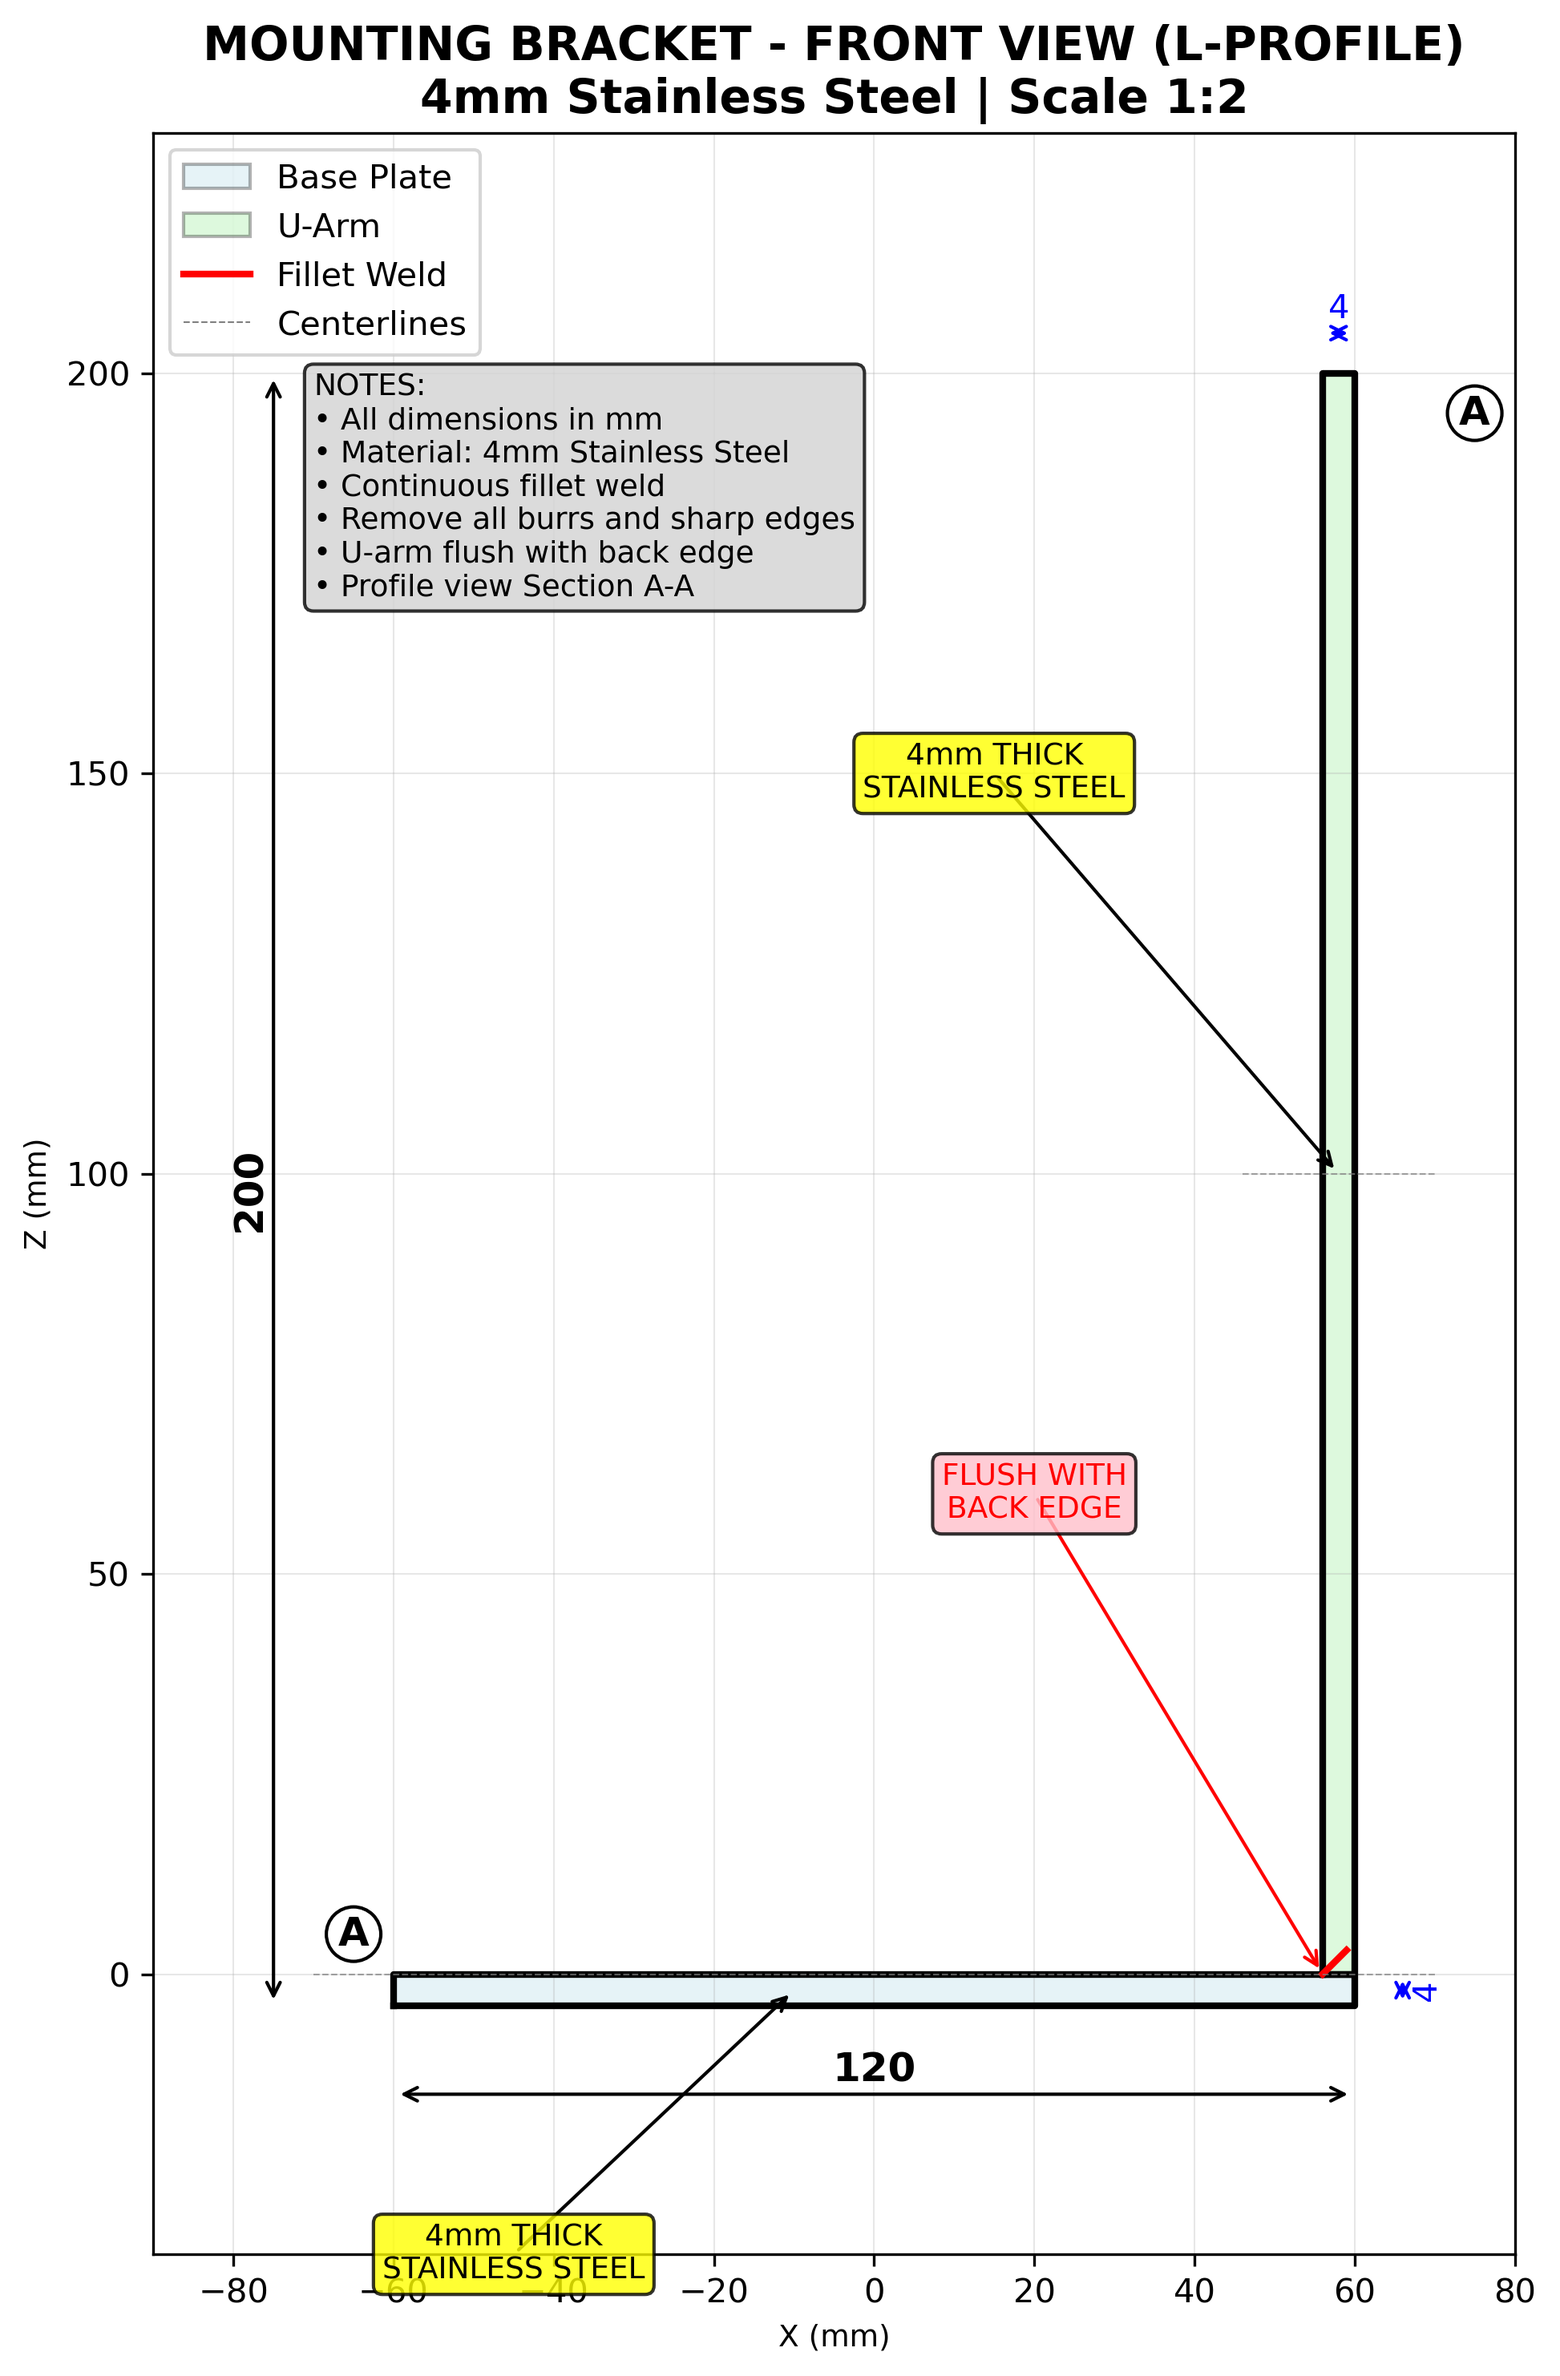
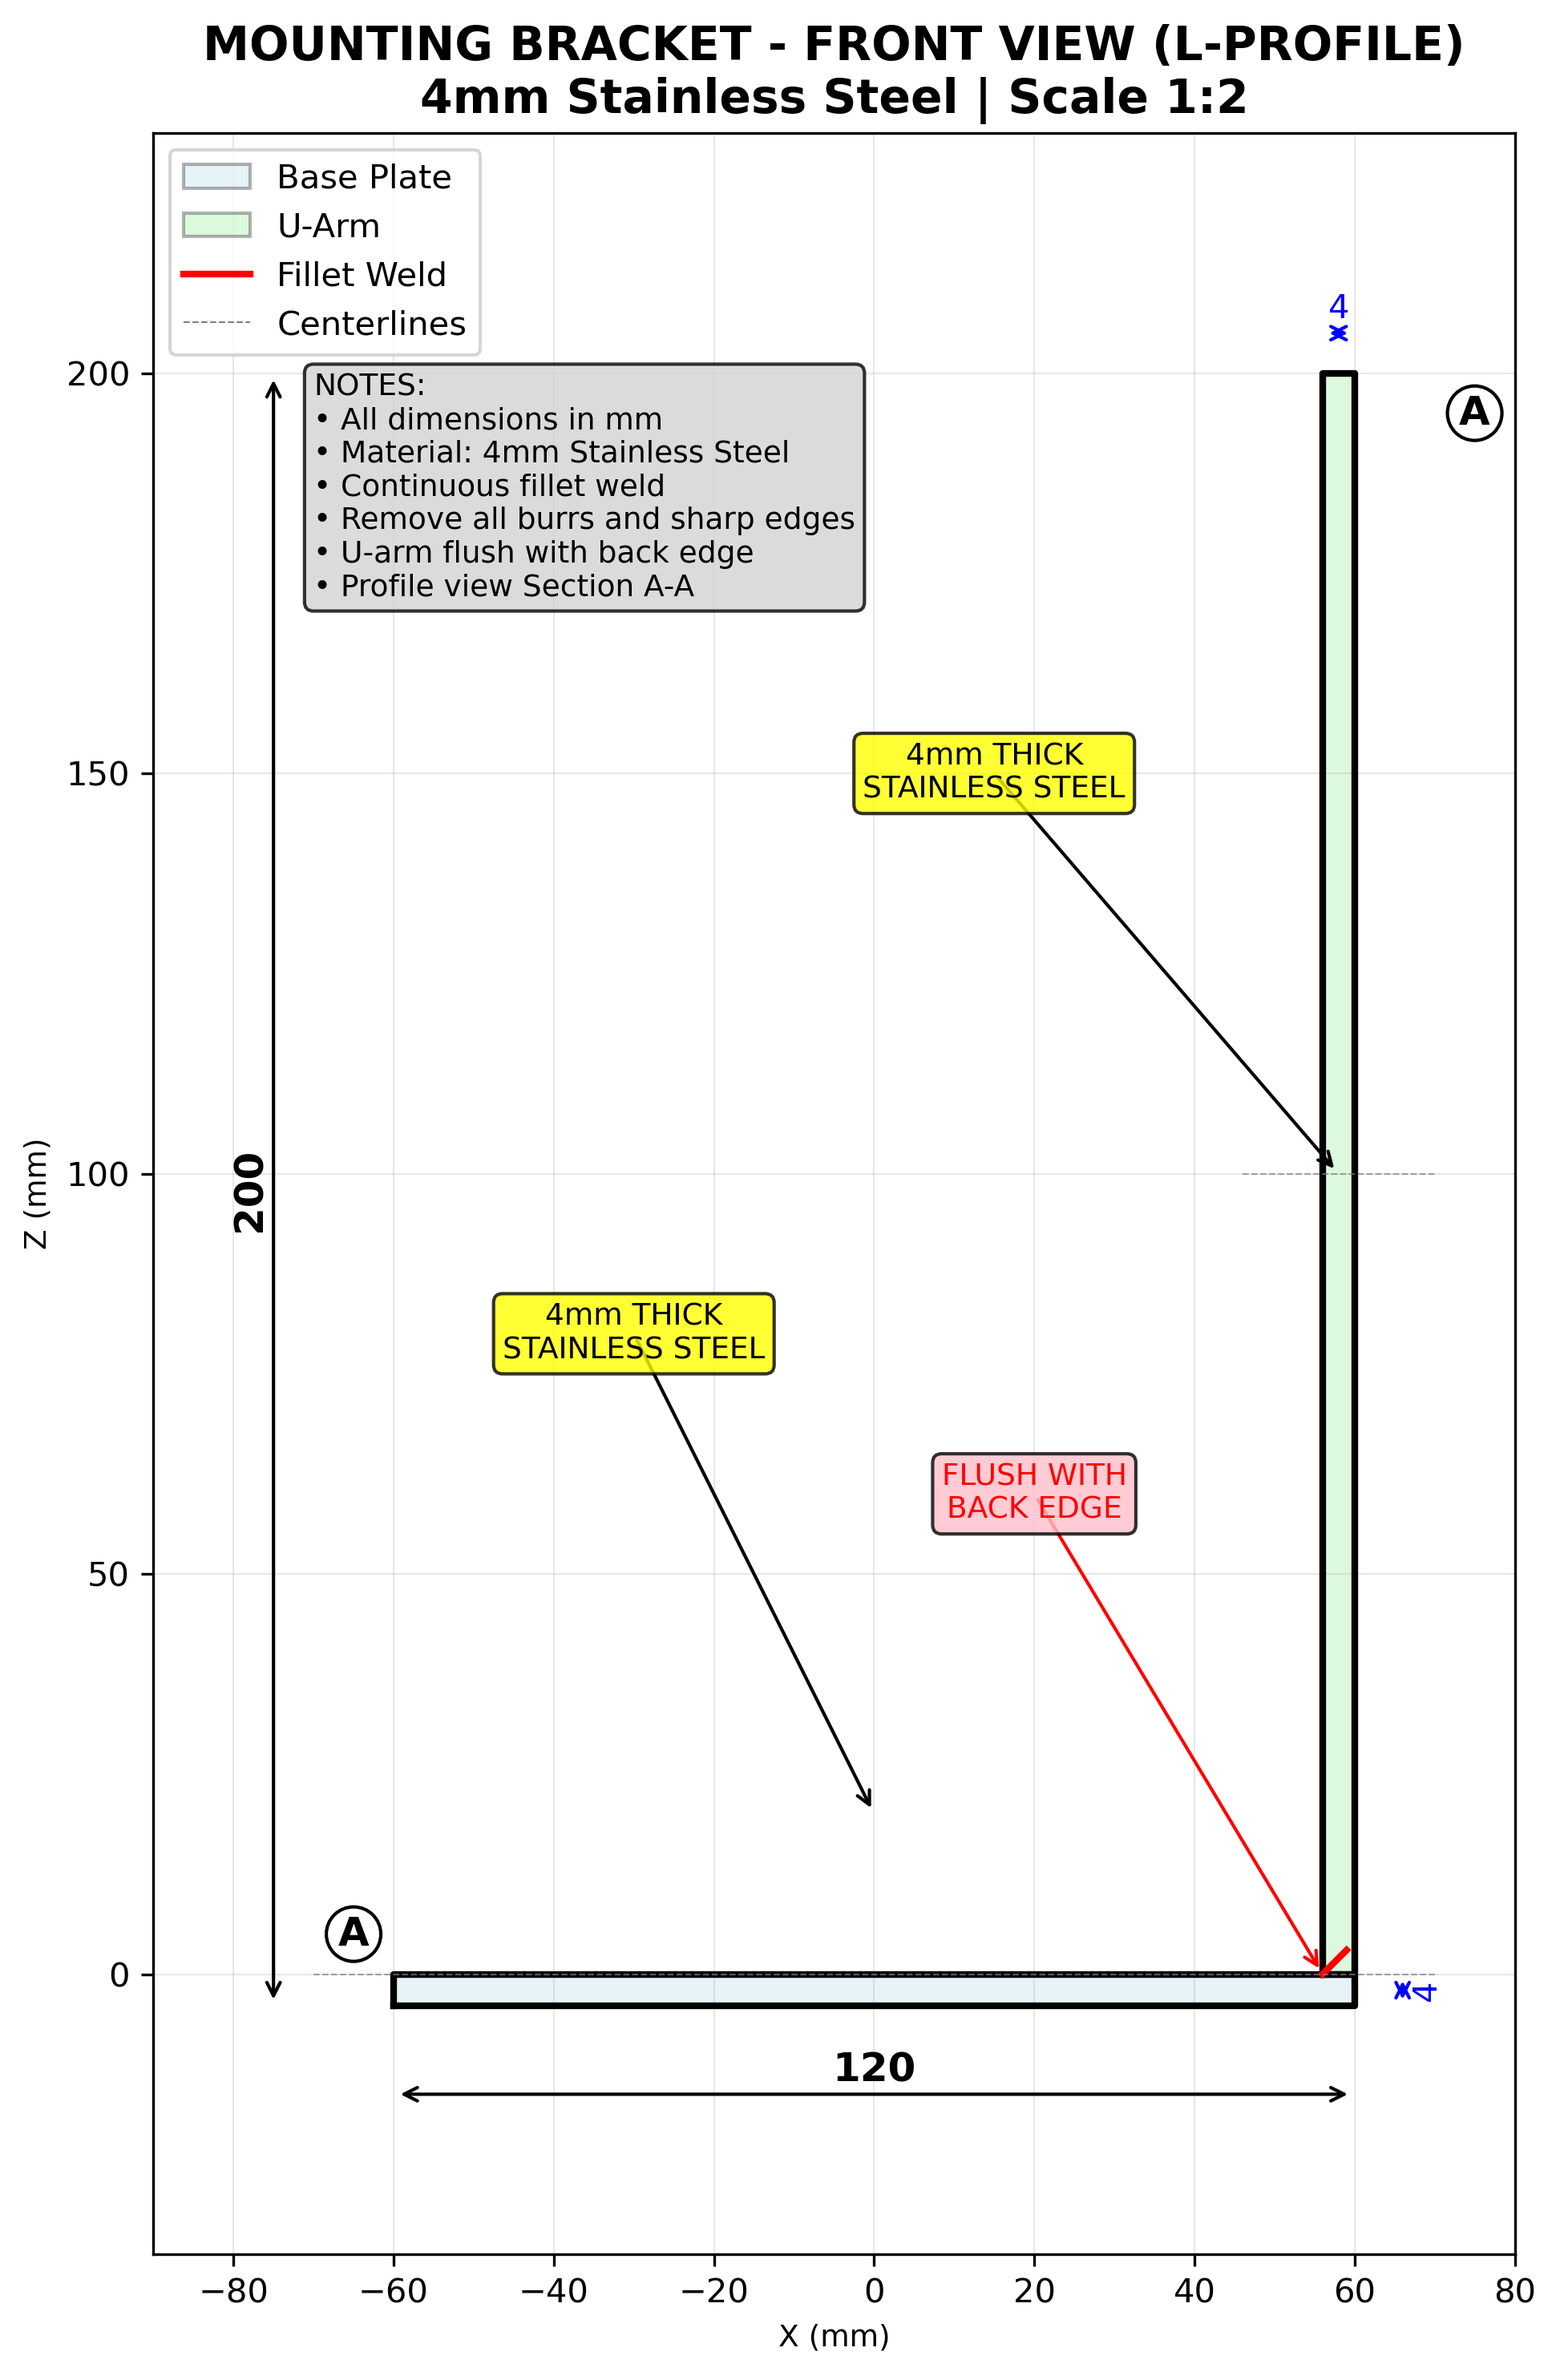
Relocate yellow material callout to plus symbol location
MATERIAL CALLOUT REPOSITIONING:
- Moved yellow '4mm THICK STAINLESS STEEL' callout to point at plus symbol location
- Changed arrow target from (-10, -BASE_PLATE_THICKNESS/2) to (0, 20)
- Repositioned text box from (-45, -35) to (-30, 80) for optimal placement
- Arrow now points to centerline area where plus symbol is visible

COORDINATE CHANGES:
- Feature point: (-10, -2) → (0, 20) - targets plus symbol location
- Leader endpoint: (-45, -35) → (-30, 80) - clear text positioning
- Maintained yellow color scheme for material specifications
- Improved layout balance with callout in upper portion

RESULT: Material callout relocated as requested to plus symbol area

Changed region(s): [[0.3083, 0.5275, 0.4933, 0.5895], [0.2158, 0.9309, 0.4317, 0.9929]]

diff --git a/src/drawing_engine.py b/src/drawing_engine.py
@@ -332,8 +332,8 @@ class DrawingEngine:
         self.utils.add_view_identifier(ax, (mb_specs.BASE_PLATE_RIGHT + 15, mb_specs.U_ARM_OVERALL_HEIGHT - 5), 'A')
         
         # === MATERIAL CALLOUTS ===
-        self.utils.add_material_callout(ax, (-10, -mb_specs.BASE_PLATE_THICKNESS/2), 
-                                      '4mm THICK\nSTAINLESS STEEL', (-45, -35), 'yellow')
+        self.utils.add_material_callout(ax, (0, 20), 
+                                      '4mm THICK\nSTAINLESS STEEL', (-30, 80), 'yellow')
         self.utils.add_material_callout(ax, (mb_specs.BASE_PLATE_RIGHT - 2, mb_specs.U_ARM_OVERALL_HEIGHT/2), 
                                       '4mm THICK\nSTAINLESS STEEL', (15, mb_specs.U_ARM_OVERALL_HEIGHT/2 + 50), 'yellow')
         
